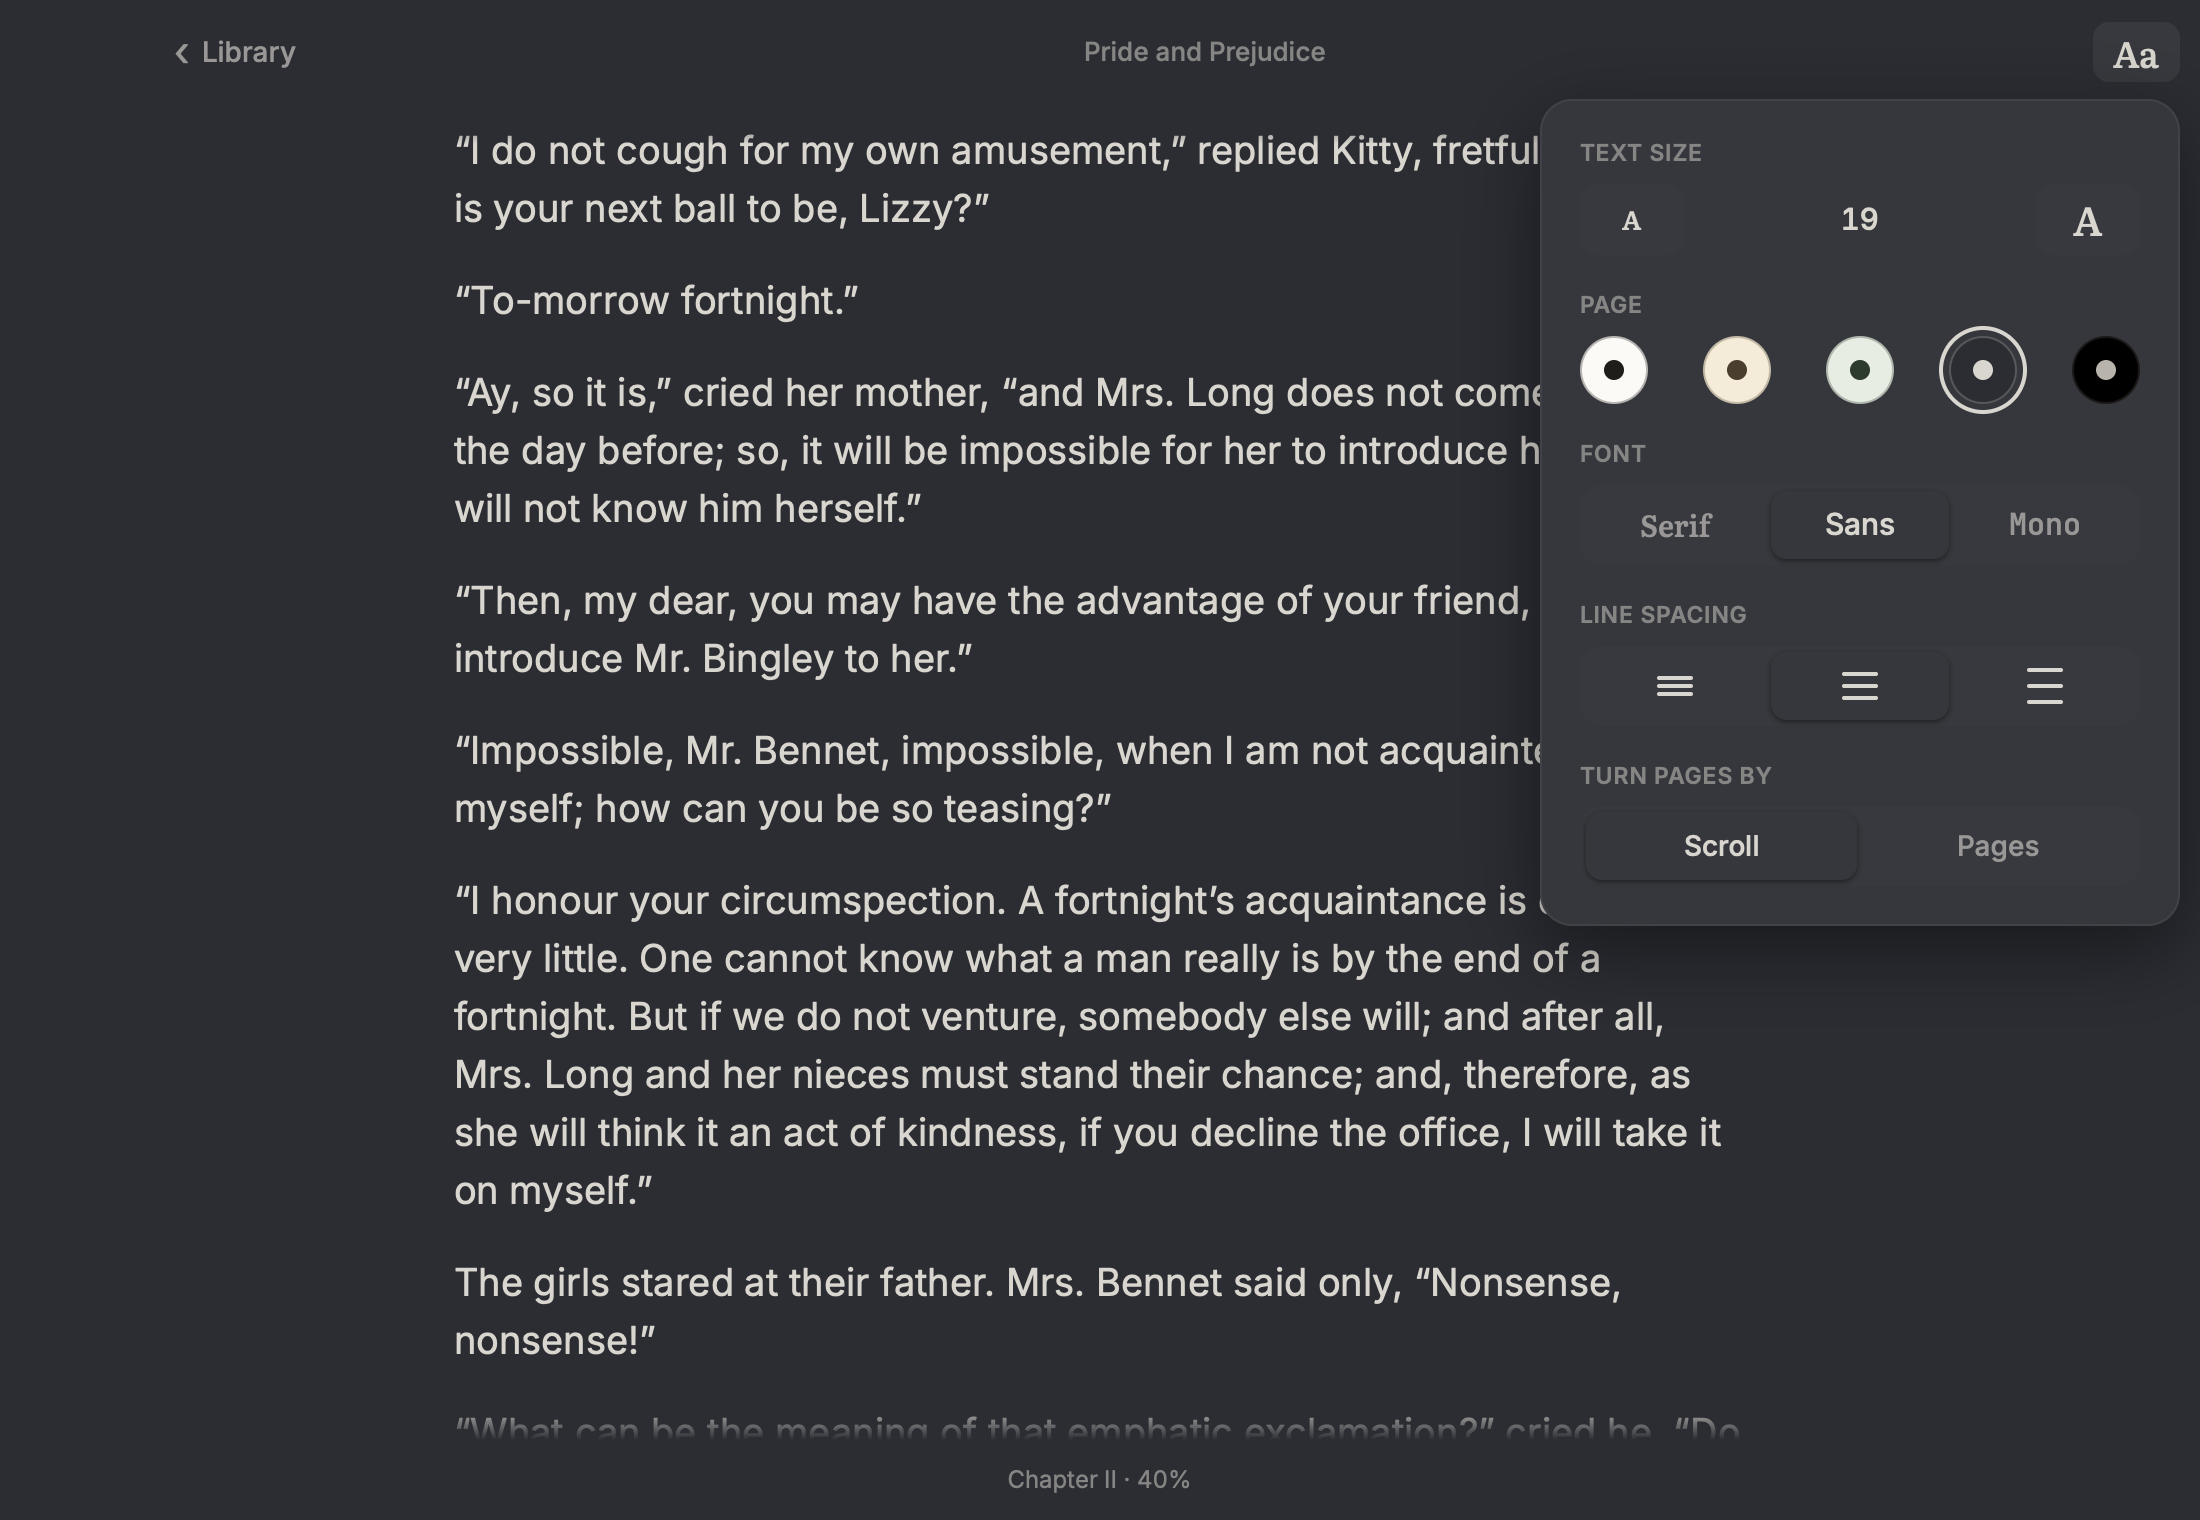
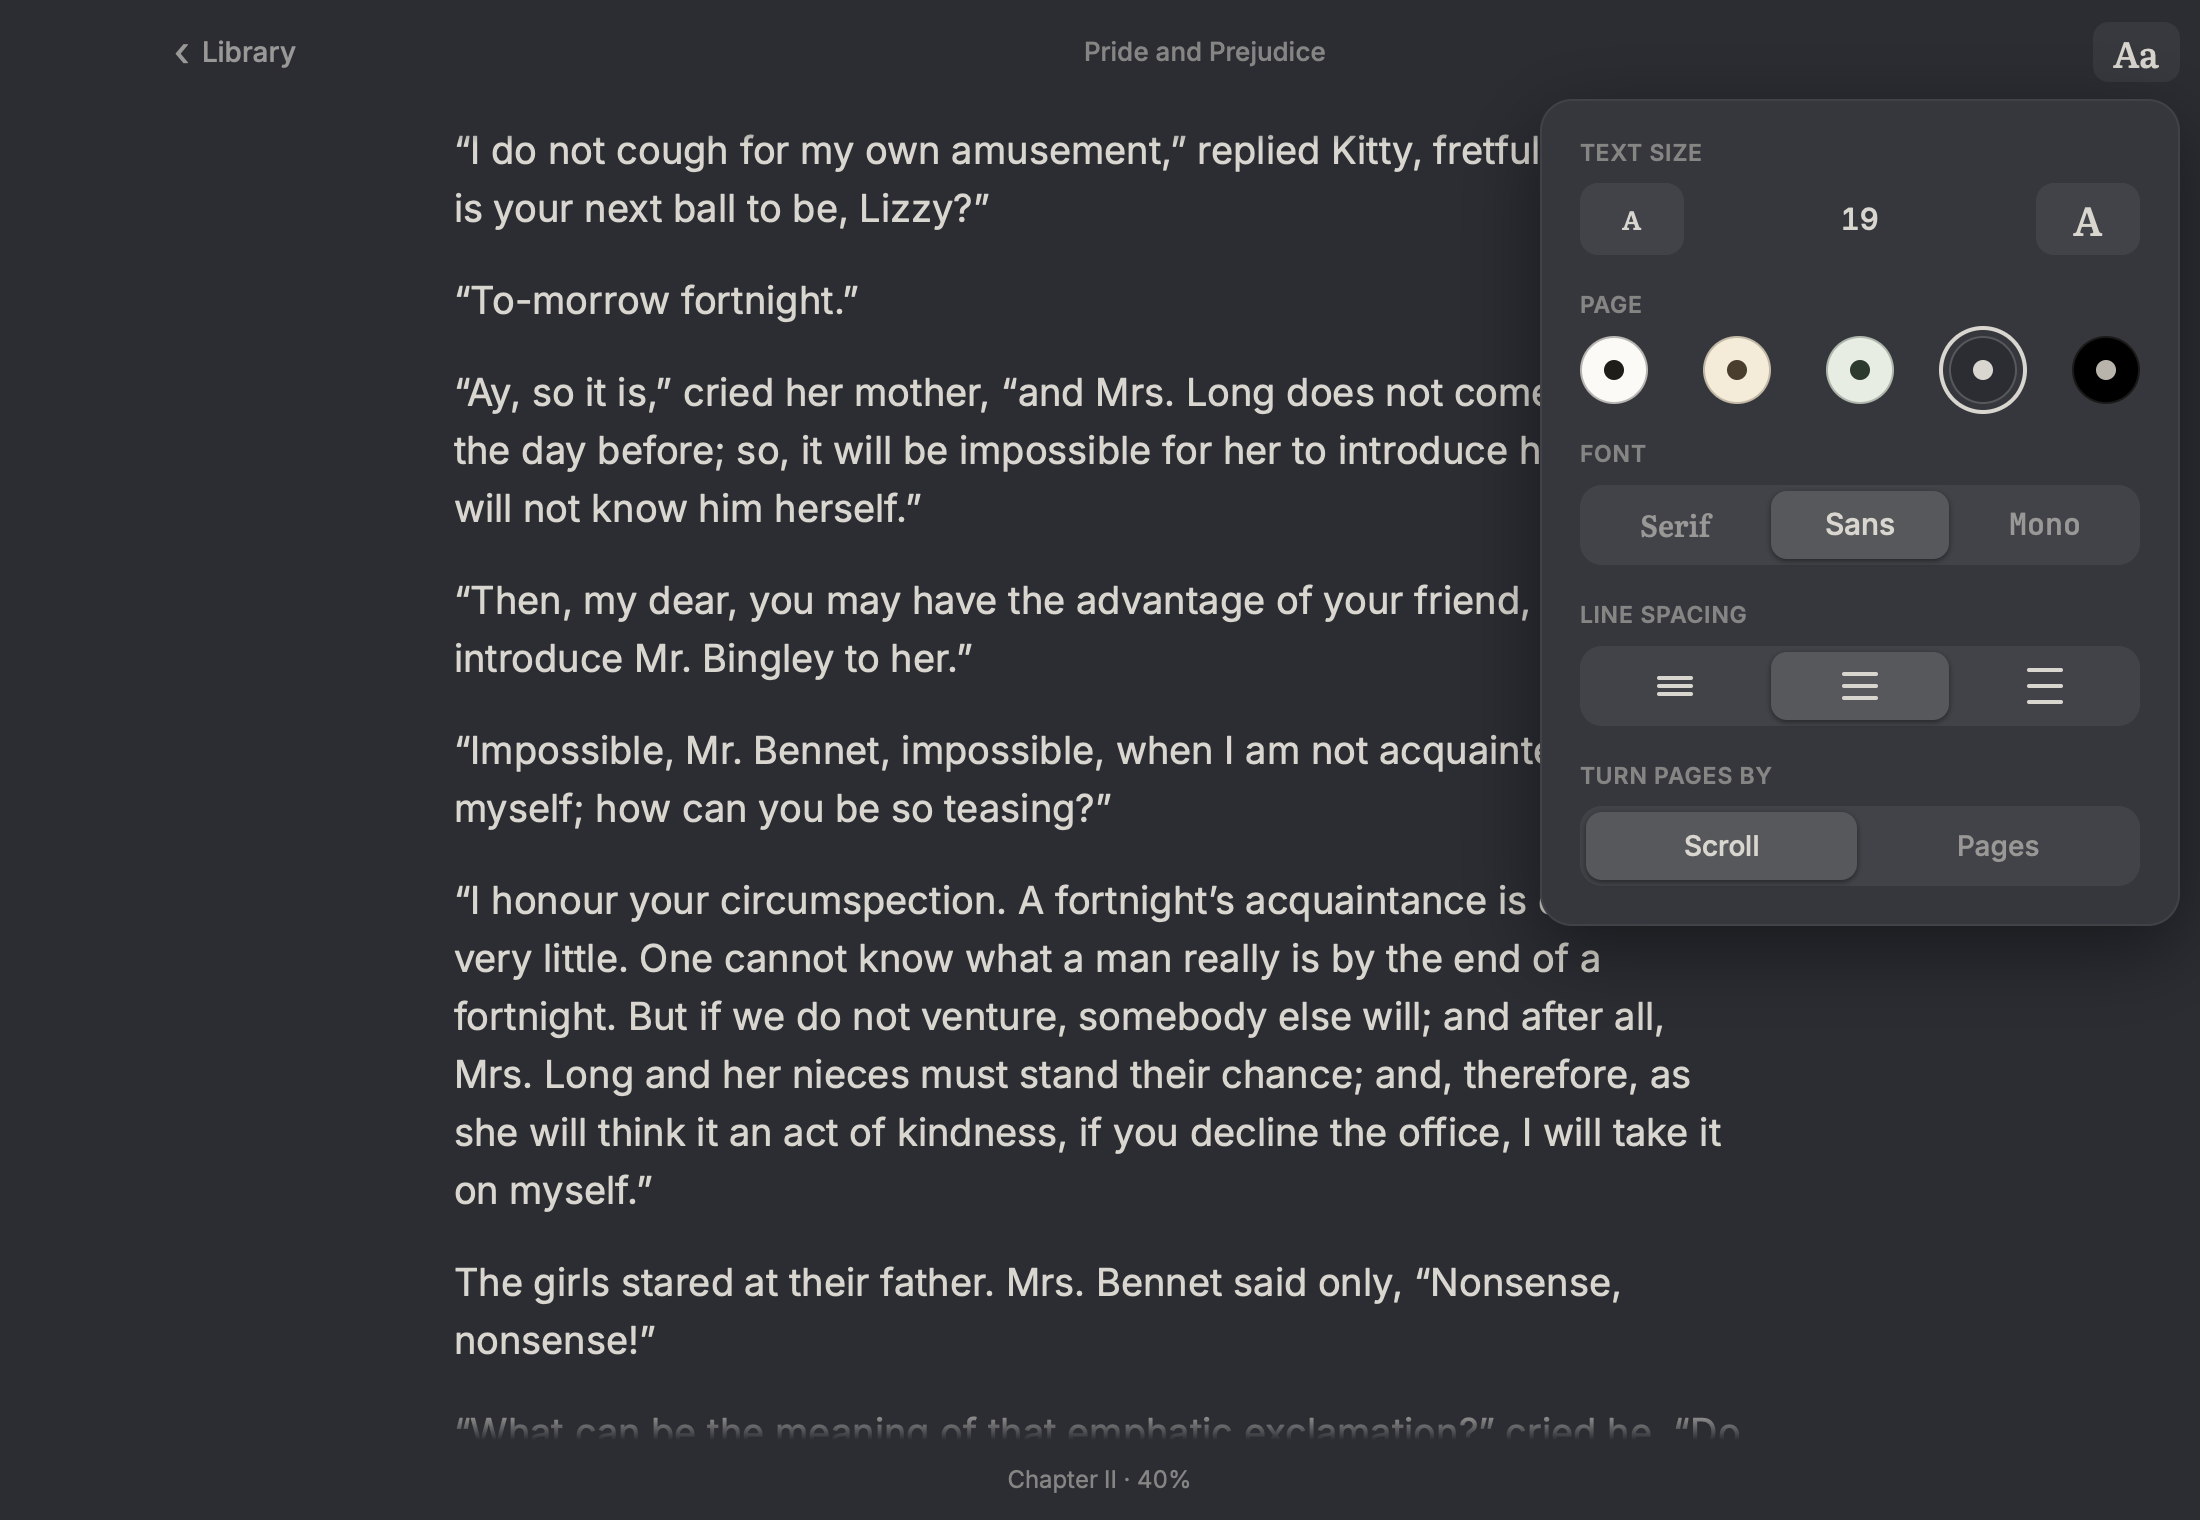
Give panel controls their own track colors so they show on dark pages (TOB-402)
On Dusk and Night the panel, the control track and the chosen segment sat within
1% lightness of each other, so the controls vanished. Mostly-capital titles such
as "PRIDE. and PREJUDICE" are calmed too. Adds the builders' commands to AGENTS.md
and the real-UI iPhone screenshots.

Changed region(s): [[0.7109, 0.5257, 0.8655, 0.5875], [0.8036, 0.402, 0.8964, 0.4947], [0.8036, 0.3092, 0.8964, 0.3711]]

diff --git a/crates/reader-app/src/look.rs b/crates/reader-app/src/look.rs
@@ -21,6 +21,9 @@ pub struct Palette {
     pub tile: Color,
     /// The appearance panel, lifted off the page.
     pub raised: Color,
+    /// A control's track inside the panel, and the chosen segment on it.
+    pub track: Color,
+    pub selected: Color,
     pub shadow: Color,
     pub dark: bool,
 }
@@ -44,6 +47,8 @@ impl Palette {
             hairline: blend(page, ink, 0.14),
             tile: blend(page, ink, if spec.dark { 0.08 } else { 0.055 }),
             raised: if spec.dark { blend(page, ink, 0.07) } else { blend(page, Color::WHITE, 0.6) },
+            track: blend(page, ink, if spec.dark { 0.15 } else { 0.055 }),
+            selected: if spec.dark { blend(page, ink, 0.28) } else { blend(page, Color::WHITE, 0.6) },
             shadow: Color::BLACK.alpha(if spec.dark { 0.45 } else { 0.12 }),
             dark: spec.dark,
         }
@@ -130,14 +135,15 @@ impl Kind {
 pub fn display_title(raw: &str) -> String {
     let t = raw.trim().trim_end_matches('.').trim();
     let letters: Vec<char> = t.chars().filter(|c| c.is_alphabetic()).collect();
-    let shouting = letters.len() > 3 && letters.iter().all(|c| c.is_uppercase());
+    let upper = letters.iter().filter(|c| c.is_uppercase()).count();
+    let shouting = letters.len() > 3 && upper * 4 >= letters.len() * 3;
     if !shouting {
         return t.to_string();
     }
     t.split(' ')
         .map(|w| {
             let roman = !w.is_empty() && w.chars().all(|c| matches!(c, 'I' | 'V' | 'X' | 'L' | 'C' | 'D' | 'M' | '.' | ','));
-            if roman {
+            if roman || w.chars().any(char::is_lowercase) {
                 return w.to_string();
             }
             let mut cs = w.chars();
@@ -165,6 +171,17 @@ mod tests {
         assert_eq!(display_title("Chapter I."), "Chapter I");
         assert_eq!(display_title("THE FULL LICENSE"), "The Full License");
         assert_eq!(display_title("Pages 1–10"), "Pages 1–10");
+        assert_eq!(display_title("PRIDE. and PREJUDICE"), "Pride. and Prejudice");
+    }
+
+    #[test]
+    fn controls_stand_off_the_panel_in_every_theme() {
+        for theme in PageTheme::ALL {
+            let p = Palette::of(theme);
+            let l = |c: Color| c.to_oklab()[0];
+            assert!((l(p.track) - l(p.raised)).abs() > 0.02, "{theme:?}: track vs panel");
+            assert!((l(p.selected) - l(p.track)).abs() > 0.02, "{theme:?}: chosen segment vs track");
+        }
     }
 
     #[test]

diff --git a/crates/reader-app/src/view.rs b/crates/reader-app/src/view.rs
@@ -467,7 +467,7 @@ fn appearance(s: &State, pal: &Palette) -> El {
             .h(36.0)
             .center()
             .radius(9.0)
-            .fill(pal.tile)
+            .fill(pal.track)
             .hover(pal.ink.alpha(0.05))
             .press(pal.ink.alpha(0.09))
             .opacity(if enabled { 1.0 } else { 0.4 })
@@ -568,7 +568,7 @@ fn segmented<T: Copy + PartialEq + 'static, const N: usize>(
     current: T,
     apply: fn(&mut Settings, T),
 ) -> El {
-    row().key(key).role("radiogroup").focus_group().w_full().h(40.0).padding(3.0).gap(3.0).radius(11.0).fill(pal.tile).children(options.into_iter().enumerate().map(|(i, (value, label))| {
+    row().key(key).role("radiogroup").focus_group().w_full().h(40.0).padding(3.0).gap(3.0).radius(11.0).fill(pal.track).children(options.into_iter().enumerate().map(|(i, (value, label))| {
         let on = value == current;
         row()
             .key(format!("{key}-{i}"))
@@ -580,7 +580,7 @@ fn segmented<T: Copy + PartialEq + 'static, const N: usize>(
             .h_full()
             .center()
             .radius(8.0)
-            .fill(if on { pal.raised } else { Color::TRANSPARENT })
+            .fill(if on { pal.selected } else { Color::TRANSPARENT })
             .shadow(if on { 1.0 } else { 0.0 }, if on { 3.0 } else { 0.0 }, if on { pal.shadow } else { Color::TRANSPARENT })
             .hover(pal.ink.alpha(0.04))
             .motion(motion::SNAP)

diff --git a/AGENTS.md b/AGENTS.md
@@ -20,5 +20,17 @@ Homebrew's rustup keeps its proxies off `PATH`. Run `export PATH=/opt/homebrew/o
 - `cargo run -p reader-mac` opens the Mac app.
 - `cargo run -p reader-mac -- --snap out.png --scene <name>` renders a scene headless to PNG (Rune's agent tooling).
 - `cargo build -p reader-ios --target aarch64-apple-ios-sim` builds the iOS library.
+- `scripts/fetch-fixtures.sh` downloads the real EPUB and PDF that `reader-core`'s tests read into `target/fixtures`. Run it before `cargo test`.
+- `scripts/snap-scenes.sh` renders every scene into `docs/screenshots`.
+- `scripts/mac-app.sh` builds release and writes an ad-hoc signed `Reader.app`, printing its path.
+- `cargo run -p reader-core --example dump -- <file> [chapter]` prints what a book parses into.
+- `scripts/ios-build.sh` builds the iOS library, generates `ios/Reader.xcodeproj` with xcodegen, builds the simulator app and prints its path.
+
+## iOS notes
+
+- The Xcode project is generated. Edit `ios/project.yml`, not the `.xcodeproj`.
+- C code built by Rust build scripts targets `IPHONEOS_DEPLOYMENT_TARGET=18.0`. cc-rs doesn't rebuild when that variable changes, so after changing it run `cargo clean -p blake3 --target <triple>`.
+- The Rune view draws its own controls, so the accessibility snapshot is empty. Drive the Simulator by coordinates in points.
+- Files copied into the app's Documents by shell don't show in the picker's folder view right away. Find them with the picker's search field.
 
 Rune is pre-release. Its rev is pinned in the root `Cargo.toml`. Read Rune's `crates/rune/README.md` at that rev for the API.
